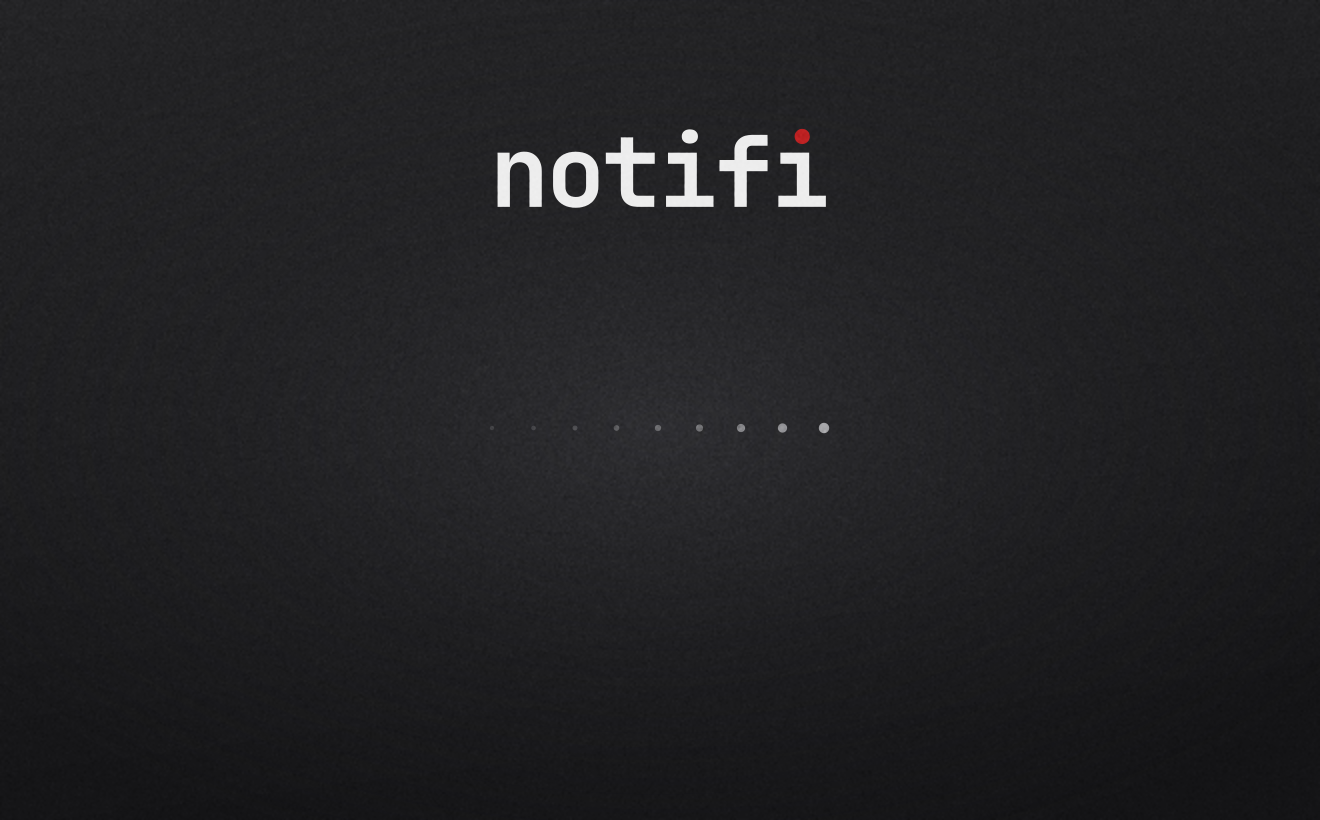
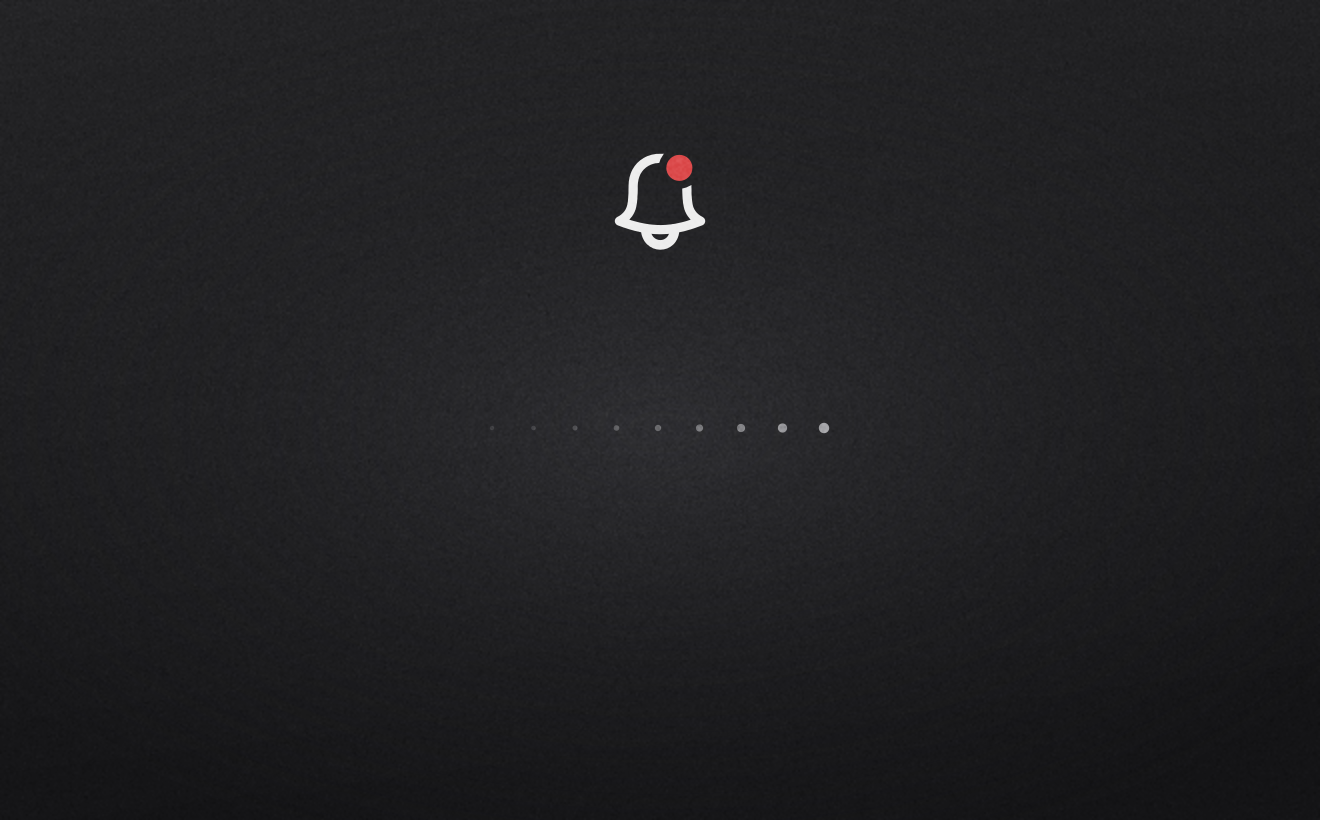
Retire the wordmark
The "notifi" wordmark — the dotless `i` with the brand-red tittle — is gone from
every surface, and wordmark.svg with it. The site header and footer now carry
the bell alone, which is what index.html's docked bar already did, so the shared
chrome regenerates all eight pages and the .mark img / .lockup CSS goes with it.

In the app the Wordmark and BrandMark views were unused, so they are deleted
along with the WordmarkLogo imageset and the components.wordmark string; the
file keeps BellMark and is renamed after it.

The two generators that composed a lockup now place the mark on its own. The
DMG install window takes the bell at 72pt where the word sat, and the four
social banners take the red-badge bell — the light badge existed only so it
would not compete with the word's red tittle, and there is no word to compete
with now.

Changed region(s): [[0.3727, 0.1524, 0.6212, 0.3049]]

diff --git a/apps/api/public/index.html b/apps/api/public/index.html
@@ -257,9 +257,9 @@ header.docked{
   transition:transform .3s var(--ease-out),opacity .3s var(--ease-out);
 }
 .bar{position:relative;display:flex;align-items:center;gap:14px;height:60px}
-/* The bell alone, no wordmark, at the right end of the bar on wide screens —
-   that is where the hero bell was when the bar arrived to replace it. On
-   small screens the hero bell is centred, so the docked bell centres too. */
+/* The bell sits at the right end of the bar on wide screens — that is where
+   the hero bell was when the bar arrived to replace it. On small screens the
+   hero bell is centred, so the docked bell centres too. */
 .mark{margin-inline-start:auto;display:flex;align-items:center;text-decoration:none}
 nav{display:flex;align-items:center;gap:22px}
 nav a{font-family:var(--mono);font-size:13px;color:var(--muted);text-decoration:none;padding-block:9px}
@@ -517,8 +517,6 @@ section{padding:clamp(48px,7vw,86px) 0}
    badge of its own, so removing this overlay is the whole change; the fractions
    that used to be here are still printed by generate-marks.sh for the app,
    which does need them. */
-.lockup{display:flex;align-items:center;gap:var(--lockgap,12px);color:var(--fg)}
-.lockup img{display:block;height:var(--word,20px);width:auto}
 
 /* ── icons ──────────────────────────────────────────────────── */
 .ico{width:19px;height:19px;flex:0 0 auto;color:var(--dim)}
@@ -1984,10 +1982,7 @@ spec:
 <!-- gen:footer -->
 <footer>
   <div class="wrap">
-    <div class="lockup" style="--bell:44px;--word:36px;--lockgap:16px;margin-bottom:26px">
-      <span class="bell" aria-hidden="true"></span>
-      <img src="/wordmark.svg" alt="notifi">
-    </div>
+    <span class="bell" aria-hidden="true" style="--bell:44px;display:block;color:var(--fg);margin-bottom:26px"></span>
   </div>
   <!-- The sticky header already carries the navigation, so the footer holds
        only what is not up there — and never a link to the page you are on. -->

diff --git a/apps/api/public/404.html b/apps/api/public/404.html
@@ -159,7 +159,6 @@ p,li{max-width:70ch}
 header{position:sticky;top:0;z-index:20;background:var(--bg);border-bottom:1px solid var(--line)}
 .bar{display:flex;align-items:center;gap:14px;height:60px}
 .mark{display:flex;align-items:center;gap:9px;text-decoration:none}
-.mark img{height:17px;width:auto;display:block}
 nav{margin-inline-start:auto;display:flex;align-items:center;gap:22px}
 nav a{font-family:var(--mono);font-size:13px;color:var(--muted);text-decoration:none;padding-block:9px}
 @media (hover:hover){nav a:hover{color:var(--fg)}}
@@ -170,8 +169,6 @@ nav a{font-family:var(--mono);font-size:13px;color:var(--muted);text-decoration:
   -webkit-mask:url(/bell.svg) center/contain no-repeat;
           mask:url(/bell.svg) center/contain no-repeat;
 }
-.lockup{display:flex;align-items:center;gap:var(--lockgap,12px);color:var(--fg)}
-.lockup img{display:block;height:var(--word,20px);width:auto}
 
 .doc{padding-block:clamp(44px,7vw,80px) clamp(50px,8vw,90px)}
 .doc h1{margin-bottom:16px}
@@ -327,9 +324,8 @@ footer{border-top:1px solid var(--line);padding:40px 0 56px}
 
 <header>
   <div class="wrap bar">
-    <a class="mark lockup" href="/" aria-label="notifi" style="--bell:24px;--word:19px;--lockgap:10px">
+    <a class="mark" href="/" aria-label="notifi" style="--bell:24px">
       <span class="bell" aria-hidden="true"></span>
-      <img src="/wordmark.svg" alt="notifi">
     </a>
     <nav>
       <a href="/">Home</a>
@@ -390,10 +386,7 @@ footer{border-top:1px solid var(--line);padding:40px 0 56px}
 
 <footer>
   <div class="wrap">
-    <div class="lockup" style="--bell:44px;--word:36px;--lockgap:16px;margin-bottom:26px">
-      <span class="bell" aria-hidden="true"></span>
-      <img src="/wordmark.svg" alt="notifi">
-    </div>
+    <span class="bell" aria-hidden="true" style="--bell:44px;display:block;color:var(--fg);margin-bottom:26px"></span>
   </div>
   <!-- The sticky header already carries the navigation, so the footer holds
        only what is not up there — and never a link to the page you are on. -->

diff --git a/apps/api/public/faq.html b/apps/api/public/faq.html
@@ -157,7 +157,6 @@ p,li{max-width:70ch}
 header{position:sticky;top:0;z-index:20;background:var(--bg);border-bottom:1px solid var(--line)}
 .bar{display:flex;align-items:center;gap:14px;height:60px}
 .mark{display:flex;align-items:center;gap:9px;text-decoration:none}
-.mark img{height:17px;width:auto;display:block}
 nav{margin-inline-start:auto;display:flex;align-items:center;gap:22px}
 nav a{font-family:var(--mono);font-size:13px;color:var(--muted);text-decoration:none;padding-block:9px}
 @media (hover:hover){nav a:hover{color:var(--fg)}}
@@ -168,8 +167,6 @@ nav a{font-family:var(--mono);font-size:13px;color:var(--muted);text-decoration:
   -webkit-mask:url(/bell.svg) center/contain no-repeat;
           mask:url(/bell.svg) center/contain no-repeat;
 }
-.lockup{display:flex;align-items:center;gap:var(--lockgap,12px);color:var(--fg)}
-.lockup img{display:block;height:var(--word,20px);width:auto}
 
 .doc{padding-block:clamp(44px,7vw,80px) clamp(50px,8vw,90px)}
 .doc h1{margin-bottom:16px}
@@ -239,9 +236,8 @@ footer{border-top:1px solid var(--line);padding:40px 0 56px}
 
 <header>
   <div class="wrap bar">
-    <a class="mark lockup" href="/" aria-label="notifi" style="--bell:24px;--word:19px;--lockgap:10px">
+    <a class="mark" href="/" aria-label="notifi" style="--bell:24px">
       <span class="bell" aria-hidden="true"></span>
-      <img src="/wordmark.svg" alt="notifi">
     </a>
     <nav>
       <a href="/">Home</a>
@@ -351,10 +347,7 @@ footer{border-top:1px solid var(--line);padding:40px 0 56px}
 
 <footer>
   <div class="wrap">
-    <div class="lockup" style="--bell:44px;--word:36px;--lockgap:16px;margin-bottom:26px">
-      <span class="bell" aria-hidden="true"></span>
-      <img src="/wordmark.svg" alt="notifi">
-    </div>
+    <span class="bell" aria-hidden="true" style="--bell:44px;display:block;color:var(--fg);margin-bottom:26px"></span>
   </div>
   <!-- The sticky header already carries the navigation, so the footer holds
        only what is not up there — and never a link to the page you are on. -->

diff --git a/apps/api/public/privacy.html b/apps/api/public/privacy.html
@@ -157,7 +157,6 @@ p,li{max-width:70ch}
 header{position:sticky;top:0;z-index:20;background:var(--bg);border-bottom:1px solid var(--line)}
 .bar{display:flex;align-items:center;gap:14px;height:60px}
 .mark{display:flex;align-items:center;gap:9px;text-decoration:none}
-.mark img{height:17px;width:auto;display:block}
 nav{margin-inline-start:auto;display:flex;align-items:center;gap:22px}
 nav a{font-family:var(--mono);font-size:13px;color:var(--muted);text-decoration:none;padding-block:9px}
 @media (hover:hover){nav a:hover{color:var(--fg)}}
@@ -168,8 +167,6 @@ nav a{font-family:var(--mono);font-size:13px;color:var(--muted);text-decoration:
   -webkit-mask:url(/bell.svg) center/contain no-repeat;
           mask:url(/bell.svg) center/contain no-repeat;
 }
-.lockup{display:flex;align-items:center;gap:var(--lockgap,12px);color:var(--fg)}
-.lockup img{display:block;height:var(--word,20px);width:auto}
 
 .doc{padding-block:clamp(44px,7vw,80px) clamp(50px,8vw,90px)}
 .doc h1{margin-bottom:16px}
@@ -239,9 +236,8 @@ footer{border-top:1px solid var(--line);padding:40px 0 56px}
 
 <header>
   <div class="wrap bar">
-    <a class="mark lockup" href="/" aria-label="notifi" style="--bell:24px;--word:19px;--lockgap:10px">
+    <a class="mark" href="/" aria-label="notifi" style="--bell:24px">
       <span class="bell" aria-hidden="true"></span>
-      <img src="/wordmark.svg" alt="notifi">
     </a>
     <nav>
       <a href="/">Home</a>
@@ -387,10 +383,7 @@ footer{border-top:1px solid var(--line);padding:40px 0 56px}
 
 <footer>
   <div class="wrap">
-    <div class="lockup" style="--bell:44px;--word:36px;--lockgap:16px;margin-bottom:26px">
-      <span class="bell" aria-hidden="true"></span>
-      <img src="/wordmark.svg" alt="notifi">
-    </div>
+    <span class="bell" aria-hidden="true" style="--bell:44px;display:block;color:var(--fg);margin-bottom:26px"></span>
   </div>
   <!-- The sticky header already carries the navigation, so the footer holds
        only what is not up there — and never a link to the page you are on. -->

diff --git a/apps/api/public/terms.html b/apps/api/public/terms.html
@@ -157,7 +157,6 @@ p,li{max-width:70ch}
 header{position:sticky;top:0;z-index:20;background:var(--bg);border-bottom:1px solid var(--line)}
 .bar{display:flex;align-items:center;gap:14px;height:60px}
 .mark{display:flex;align-items:center;gap:9px;text-decoration:none}
-.mark img{height:17px;width:auto;display:block}
 nav{margin-inline-start:auto;display:flex;align-items:center;gap:22px}
 nav a{font-family:var(--mono);font-size:13px;color:var(--muted);text-decoration:none;padding-block:9px}
 @media (hover:hover){nav a:hover{color:var(--fg)}}
@@ -168,8 +167,6 @@ nav a{font-family:var(--mono);font-size:13px;color:var(--muted);text-decoration:
   -webkit-mask:url(/bell.svg) center/contain no-repeat;
           mask:url(/bell.svg) center/contain no-repeat;
 }
-.lockup{display:flex;align-items:center;gap:var(--lockgap,12px);color:var(--fg)}
-.lockup img{display:block;height:var(--word,20px);width:auto}
 
 .doc{padding-block:clamp(44px,7vw,80px) clamp(50px,8vw,90px)}
 .doc h1{margin-bottom:16px}
@@ -239,9 +236,8 @@ footer{border-top:1px solid var(--line);padding:40px 0 56px}
 
 <header>
   <div class="wrap bar">
-    <a class="mark lockup" href="/" aria-label="notifi" style="--bell:24px;--word:19px;--lockgap:10px">
+    <a class="mark" href="/" aria-label="notifi" style="--bell:24px">
       <span class="bell" aria-hidden="true"></span>
-      <img src="/wordmark.svg" alt="notifi">
     </a>
     <nav>
       <a href="/">Home</a>
@@ -317,10 +313,7 @@ footer{border-top:1px solid var(--line);padding:40px 0 56px}
 
 <footer>
   <div class="wrap">
-    <div class="lockup" style="--bell:44px;--word:36px;--lockgap:16px;margin-bottom:26px">
-      <span class="bell" aria-hidden="true"></span>
-      <img src="/wordmark.svg" alt="notifi">
-    </div>
+    <span class="bell" aria-hidden="true" style="--bell:44px;display:block;color:var(--fg);margin-bottom:26px"></span>
   </div>
   <!-- The sticky header already carries the navigation, so the footer holds
        only what is not up there — and never a link to the page you are on. -->

diff --git a/apps/api/public/docs.html b/apps/api/public/docs.html
@@ -224,7 +224,6 @@ p,li{max-width:70ch}
 header{position:sticky;top:0;z-index:20;background:var(--bg);border-bottom:1px solid var(--line)}
 .bar{display:flex;align-items:center;gap:14px;height:60px}
 .mark{display:flex;align-items:center;gap:9px;text-decoration:none}
-.mark img{height:17px;width:auto;display:block}
 nav{margin-inline-start:auto;display:flex;align-items:center;gap:22px}
 nav a{font-family:var(--mono);font-size:13px;color:var(--muted);text-decoration:none;padding-block:9px}
 @media (hover:hover){nav a:hover{color:var(--fg)}}
@@ -235,8 +234,6 @@ nav a{font-family:var(--mono);font-size:13px;color:var(--muted);text-decoration:
   -webkit-mask:url(/bell.svg) center/contain no-repeat;
           mask:url(/bell.svg) center/contain no-repeat;
 }
-.lockup{display:flex;align-items:center;gap:var(--lockgap,12px);color:var(--fg)}
-.lockup img{display:block;height:var(--word,20px);width:auto}
 
 .doc{padding-block:clamp(44px,7vw,80px) clamp(50px,8vw,90px)}
 .doc h1{margin-bottom:16px}
@@ -449,9 +446,8 @@ footer{border-top:1px solid var(--line);padding:40px 0 56px}
 
 <header>
   <div class="wrap bar">
-    <a class="mark lockup" href="/" aria-label="notifi" style="--bell:24px;--word:19px;--lockgap:10px">
+    <a class="mark" href="/" aria-label="notifi" style="--bell:24px">
       <span class="bell" aria-hidden="true"></span>
-      <img src="/wordmark.svg" alt="notifi">
     </a>
     <nav>
       <a href="/">Home</a>
@@ -1149,10 +1145,7 @@ spec:
 
 <footer>
   <div class="wrap">
-    <div class="lockup" style="--bell:44px;--word:36px;--lockgap:16px;margin-bottom:26px">
-      <span class="bell" aria-hidden="true"></span>
-      <img src="/wordmark.svg" alt="notifi">
-    </div>
+    <span class="bell" aria-hidden="true" style="--bell:44px;display:block;color:var(--fg);margin-bottom:26px"></span>
   </div>
   <!-- The sticky header already carries the navigation, so the footer holds
        only what is not up there — and never a link to the page you are on. -->

diff --git a/apps/app/Shared/Views/Components/BellMark.swift b/apps/app/Shared/Views/Components/BellMark.swift
@@ -1,37 +1,5 @@
 import SwiftUI
 
-struct Wordmark: View {
-    var size: CGFloat = 17
-    var color: Color = Theme.fg
-    var dot: Color = Theme.brand
-
-    private static let aspect: CGFloat = 3450.0 / 1000.0
-    private static let tittleX: CGFloat = 0.9182
-    private static let tittleY: CGFloat = 0.0858
-    private static let tittleD: CGFloat = 0.1543
-
-    private var width: CGFloat { size * Self.aspect }
-    private var dotSize: CGFloat { Self.tittleD * size }
-
-    var body: some View {
-        Image("WordmarkLogo")
-            .renderingMode(.template)
-            .resizable()
-            .scaledToFit()
-            .foregroundStyle(color)
-            .frame(width: width, height: size)
-            .overlay {
-                Circle()
-                    .fill(dot)
-                    .frame(width: dotSize, height: dotSize)
-                    .position(x: Self.tittleX * width, y: Self.tittleY * size)
-            }
-            .frame(width: width, height: size)
-            .accessibilityElement()
-            .accessibilityLabel(Copy.Components.wordmark)
-    }
-}
-
 struct BellMark: View {
     var size: CGFloat = 21
     var hasUnread: Bool = false
@@ -77,26 +45,4 @@ struct BellMark: View {
             .animation(.easeOut(duration: 0.2), value: hasUnread)
             .accessibilityHidden(true)
     }
-}
-
-struct BrandMark: View {
-    var size: CGFloat = 17
-    @Environment(AppModel.self) private var model
-
-    var body: some View {
-        HStack(spacing: 9) {
-            BellMark(size: size * 1.25, hasUnread: model.hasUnread)
-            Wordmark(size: size)
-        }
-    }
-}
-
-#Preview {
-    VStack(alignment: .leading, spacing: 24) {
-        Wordmark(size: 17)
-        Wordmark(size: 28)
-        Wordmark(size: 44)
-    }
-    .padding(40)
-    .background(Theme.bg)
 }

diff --git a/packages/site/src/chrome.ts b/packages/site/src/chrome.ts
@@ -115,9 +115,8 @@ export function header(meta: Meta): string {
   const links = withoutSelf(meta.nav ?? NAV, meta.path);
   return `<header>
   <div class="wrap bar">
-    <a class="mark lockup" href="/" aria-label="notifi" style="--bell:24px;--word:19px;--lockgap:10px">
+    <a class="mark" href="/" aria-label="notifi" style="--bell:24px">
       <span class="bell" aria-hidden="true"></span>
-      <img src="/wordmark.svg" alt="notifi">
     </a>
     <nav>
 ${links.map((link) => `      ${tag(link)}`).join('\n')}
@@ -130,10 +129,7 @@ export function footer(meta: Meta): string {
   const links = withoutSelf(FOOTER, meta.path);
   return `<footer>
   <div class="wrap">
-    <div class="lockup" style="--bell:44px;--word:36px;--lockgap:16px;margin-bottom:26px">
-      <span class="bell" aria-hidden="true"></span>
-      <img src="/wordmark.svg" alt="notifi">
-    </div>
+    <span class="bell" aria-hidden="true" style="--bell:44px;display:block;color:var(--fg);margin-bottom:26px"></span>
   </div>
   <!-- The sticky header already carries the navigation, so the footer holds
        only what is not up there — and never a link to the page you are on. -->

diff --git a/packages/site/src/tokens.css b/packages/site/src/tokens.css
@@ -116,7 +116,6 @@ p,li{max-width:70ch}
 header{position:sticky;top:0;z-index:20;background:var(--bg);border-bottom:1px solid var(--line)}
 .bar{display:flex;align-items:center;gap:14px;height:60px}
 .mark{display:flex;align-items:center;gap:9px;text-decoration:none}
-.mark img{height:17px;width:auto;display:block}
 nav{margin-inline-start:auto;display:flex;align-items:center;gap:22px}
 nav a{font-family:var(--mono);font-size:13px;color:var(--muted);text-decoration:none;padding-block:9px}
 @media (hover:hover){nav a:hover{color:var(--fg)}}
@@ -127,8 +126,6 @@ nav a{font-family:var(--mono);font-size:13px;color:var(--muted);text-decoration:
   -webkit-mask:url(/bell.svg) center/contain no-repeat;
           mask:url(/bell.svg) center/contain no-repeat;
 }
-.lockup{display:flex;align-items:center;gap:var(--lockgap,12px);color:var(--fg)}
-.lockup img{display:block;height:var(--word,20px);width:auto}
 
 .doc{padding-block:clamp(44px,7vw,80px) clamp(50px,8vw,90px)}
 .doc h1{margin-bottom:16px}

diff --git a/apps/app/Shared/Support/Copy.swift b/apps/app/Shared/Support/Copy.swift
@@ -244,7 +244,6 @@ enum Copy {
         static func errorLabel(_ message: String) -> String { String.localizedStringWithFormat(NSLocalizedString("components.errorLabel", comment: ""), message) }
         static func backTo(_ label: String) -> String { String.localizedStringWithFormat(NSLocalizedString("components.backTo", comment: ""), label) }
         static var createKey: String { NSLocalizedString("components.createKey", comment: "") }
-        static var wordmark: String { NSLocalizedString("components.wordmark", comment: "") }
     }
     enum Identity {
         static var title: String { NSLocalizedString("identity.title", comment: "") }

diff --git a/packages/copy/src/translations/de.ts b/packages/copy/src/translations/de.ts
@@ -364,7 +364,6 @@ export const de: Translation = {
   'components.errorLabel': 'Fehler. {message}',
   'components.backTo': 'Zurück zu {label}',
   'components.createKey': 'Schlüssel erstellen',
-  'components.wordmark': 'notifi',
 
   'identity.title': 'notifi kann nicht entsperrt werden',
   'identity.detail':

diff --git a/packages/copy/src/translations/fr.ts b/packages/copy/src/translations/fr.ts
@@ -320,7 +320,6 @@ export const fr: Translation = {
   'components.errorLabel': 'Erreur. {message}',
   'components.backTo': 'Retour à {label}',
   'components.createKey': 'Créer une clé',
-  'components.wordmark': 'notifi',
 
   'identity.title': 'Impossible de déverrouiller notifi',
   'identity.detail':
